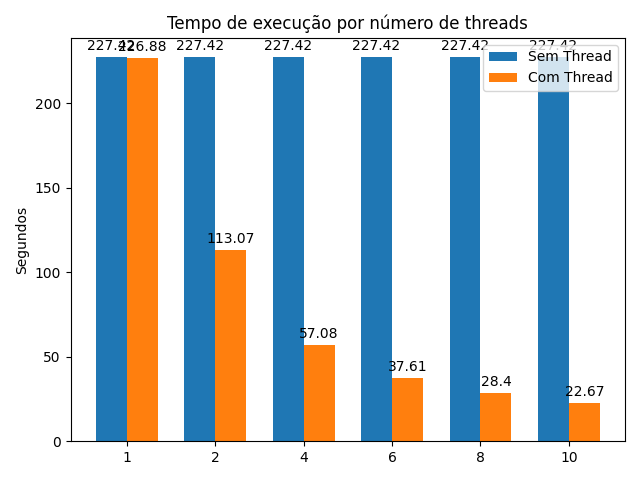
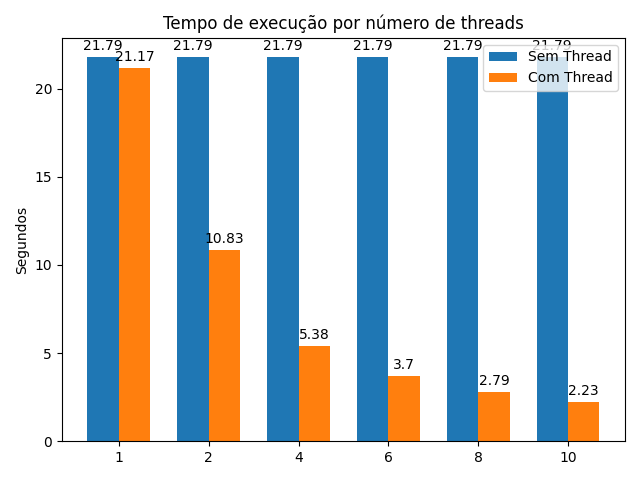
exec

diff --git a/src/parallel.py b/src/parallel.py
@@ -2,10 +2,10 @@ import time
 from fetch import fetch
 import concurrent.futures
 
-def parallel(URL='https://jsonplaceholder.typicode.com/posts', threads=10):
+def parallel(URL='https://jsonplaceholder.typicode.com/posts', threads=10, exec=100):
     time_start = time.time()
     with concurrent.futures.ThreadPoolExecutor(max_workers=threads) as tpe:
-        results = [tpe.submit(fetch, URL) for _ in range(1000)]
+        results = [tpe.submit(fetch, URL) for _ in range(exec)]
         for f in concurrent.futures.as_completed(results):
             print(f.result())
     time_end = time.time()

diff --git a/src/main.py b/src/main.py
@@ -12,7 +12,7 @@ if __name__ == "__main__":
     for i in threads:
         time_concurrent = parallel(threads=i)
         parallels.append(time_concurrent)
-        improvement.append((time_sequential - time_concurrent)/time_sequential)
+        improvement.append((time_sequential - time_concurrent)*100/time_sequential)
 
     x = np.arange(len(threads))
     fig, ax = plt.subplots()

diff --git a/src/sequential.py b/src/sequential.py
@@ -1,9 +1,9 @@
 import time 
 from fetch import fetch
 
-def sequential(URL='https://jsonplaceholder.typicode.com/posts'):
+def sequential(URL='https://jsonplaceholder.typicode.com/posts', exec=100):
     time_start = time.time()
-    for _ in range(1000):
+    for _ in range(exec):
         fetch(URL)
     time_end = time.time()
     return round(time_end - time_start, 2)
